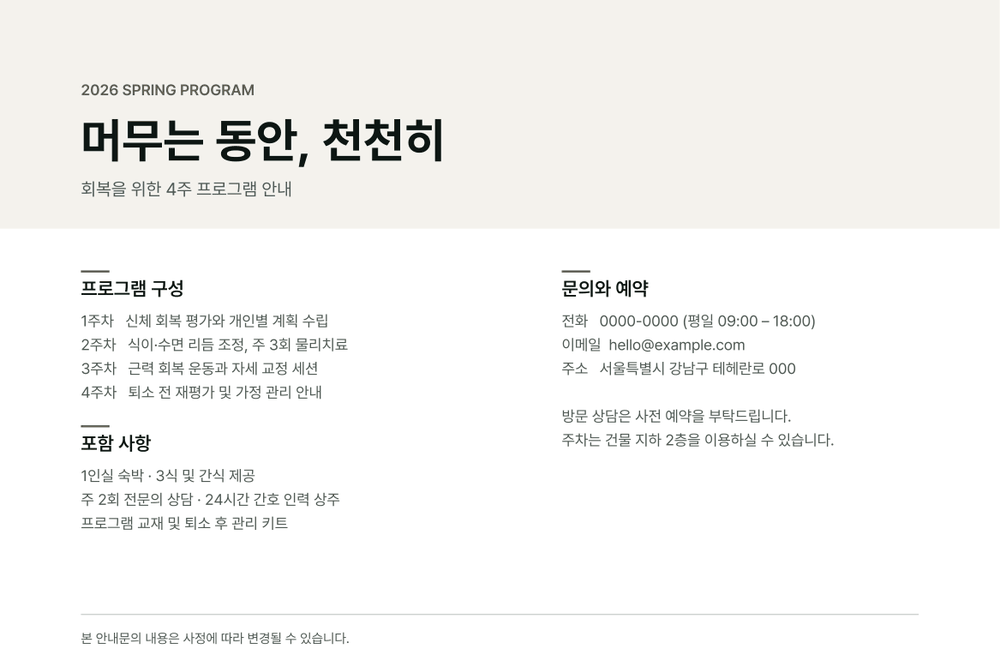
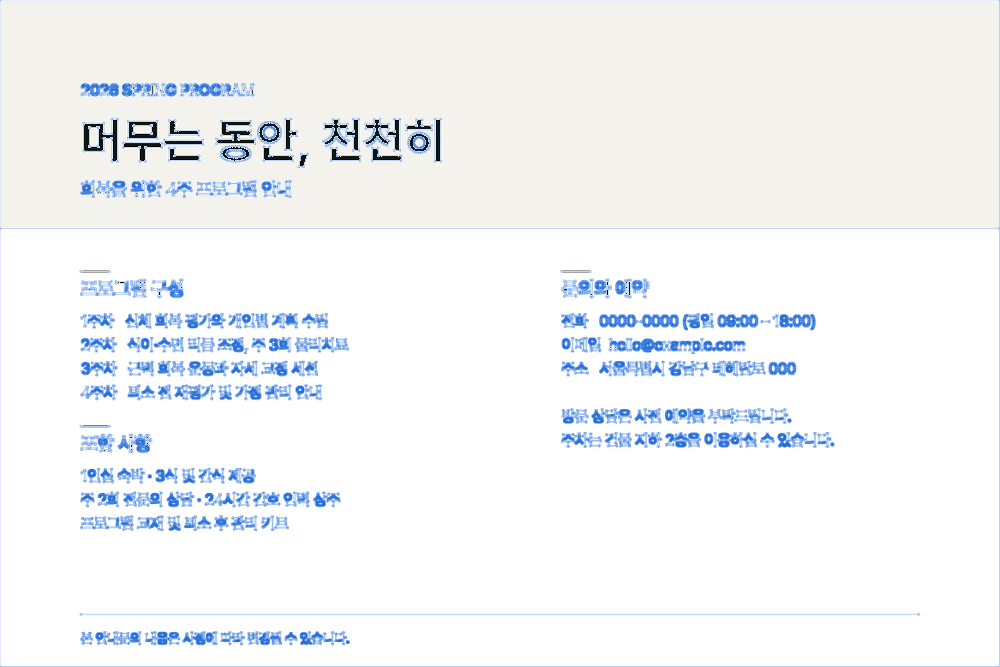
영역 제목을 확실히 키우고, 갤러리 전/후가 보이지 않던 문제와 목록 높이 불균형을 고침
제목
- 섹션 제목 최소 38px (좁은 화면 기준), 최대 68px. 이전 32~58px 로는 «영역 제목»으로
  안 읽힌다는 지적을 반영해 한 번 더 키움.
- 섹션 이름표를 알약 배지에서 «제목 위 라벨 + 괘선» 으로 바꿈. 배지는 작아서
  영역이 바뀌는 신호가 되지 못했다.

갤러리 전/후
- 전/후를 나란히 놓으면 아무 차이도 안 보였다(그게 이 서비스의 핵심이지만
  슬라이더로는 고장난 것처럼 읽힌다). 히어로와 같이 «앵커포인트 화면» 을 «전» 으로 쓴다.
- 앵커 뷰는 흰 종이라 왼쪽만 배경이 빠져 보였다 → 원본 렌더 위에 앵커만 덮어
  합성(compose_anchor). 히어로 이미지도 같은 방식으로 다시 만듦.

받으실 것
- 리포트처럼 세로로 긴 그림 때문에 행 높이가 제각각이고 왼쪽에 거대한 빈칸이 생겼다.
  그림칸을 16:9 로 못 박고 object-fit:contain 으로 잘리지 않게 함.
  리포트는 읽히는 윗부분만 잘라 별도 썸네일로.

diff --git a/style.css b/style.css
@@ -38,17 +38,26 @@ section{padding-block:clamp(72px,9vw,130px)}
 .center{text-align:center}
 
 /* ── 공통 조각 ────────────────────────────────────────────────── */
-.eyebrow{display:inline-flex;align-items:center;gap:9px;font-size:14px;font-weight:700;
-  letter-spacing:.01em;color:var(--accent);background:var(--accent-soft);
-  border:1px solid rgba(30,122,90,.18);padding:8px 17px 8px 13px;border-radius:999px}
+/* 섹션 이름표 — 알약 배지는 작아서 «영역 제목»으로 안 읽혔다.
+   테두리를 없애고 글자를 키워 제목 위 라벨처럼 보이게 한다. */
+.eyebrow{display:inline-flex;align-items:center;gap:10px;font-size:15px;font-weight:700;
+  letter-spacing:.06em;color:var(--accent);background:transparent;border:0;
+  padding:0;border-radius:0;text-transform:none}
+.eyebrow::after{content:"";flex:1;min-width:34px;height:1px;background:currentColor;
+  opacity:.28;margin-left:2px}
+.eyebrow .dot{width:9px;height:9px}
+.on-dark .eyebrow{color:var(--accent-lit);background:transparent;border:0}
 .eyebrow .dot{width:6px;height:6px;border-radius:50%;background:var(--accent-lit);
   box-shadow:0 0 0 3px rgba(79,199,154,.22)}
 .on-dark .eyebrow{color:var(--accent-lit);background:rgba(79,199,154,.10);
   border-color:rgba(79,199,154,.22)}
-/* 제목 크기 — 2026-08-30 키움. 화면에서 «딱 보이게» 해달라는 요청.
-   섹션 이름표(eyebrow)도 같이 키워야 균형이 맞는다. */
-h2.h{font-size:clamp(32px,4.6vw,58px);letter-spacing:-.042em;line-height:1.16}
-.lede{font-size:clamp(17px,1.7vw,21px);color:var(--muted);max-width:60ch;margin-top:16px}
+/* 섹션 제목 — 2026-08-30 두 번 키움.
+   좁은 화면에서도 «딱 보여야» 하므로 최소값을 크게 잡는다(38px).
+   vw 계수도 올려 넓은 화면에서 시원하게 커지도록 한다. */
+h2.h{font-size:clamp(38px,5.4vw,68px);letter-spacing:-.045em;line-height:1.12;
+  font-weight:800}
+.sec-head .eyebrow + h2.h,.sec-head .eyebrow + h1.h{margin-top:22px}
+.lede{font-size:clamp(17px,1.6vw,20px);color:var(--muted);max-width:60ch;margin-top:16px}
 .on-dark .lede{color:var(--muted-d)}
 .sec-head{max-width:64ch}
 .sec-head.center{margin-inline:auto}
@@ -559,13 +568,18 @@ footer .legal{margin-top:34px;padding-top:22px;border-top:1px solid var(--line-d
   font-variant-numeric:tabular-nums}
 @media(min-width:820px){.getrow .no{padding:0 0 0 26px}}
 .getrow .body{padding:12px 24px 22px}
-@media(min-width:820px){.getrow .body{padding:22px 26px 22px 0}}
+@media(min-width:820px){.getrow .body{padding:26px 26px 26px 0}}
 .getrow h3{font-size:17.5px;margin-bottom:6px}
 .getrow p{font-size:14.4px;color:var(--muted);line-height:1.65}
+/* 이미지 높이를 놔두면 리포트처럼 세로로 긴 것 때문에 행이 제각각 늘어나
+   왼쪽에 거대한 빈칸이 생긴다. 모든 행의 그림칸을 같은 비율로 못 박는다. */
 .getrow figure{margin:0;background:var(--paper-2);border-left:1px solid var(--line);
-  padding:14px;display:flex;align-items:center}
+  padding:16px;display:flex;align-items:center;justify-content:center}
 @media(max-width:819px){.getrow figure{border-left:0;border-top:1px solid var(--line)}}
-.getrow figure img{width:100%;height:auto;display:block;border-radius:6px}
+.getrow figure img{width:100%;display:block;border-radius:6px;
+  aspect-ratio:16/9;object-fit:contain;background:#fff;
+  border:1px solid var(--line)}
+.getrow .filelist{align-self:center}
 .getrow .filelist{font-size:12.6px;color:var(--muted);line-height:1.9;
   font-family:ui-monospace,SFMono-Regular,Menlo,monospace}
 .getrow .filelist b{color:var(--text)}

diff --git a/index.html b/index.html
@@ -268,8 +268,8 @@
       <div class="gal-view" id="galView">
         <img id="galAfter" alt="복원 후">
         <div class="top" id="galTop"><img id="galBefore" alt="복원 전"></div>
-        <span class="ba-tag l">복원 전</span>
-        <span class="ba-tag r">복원 후</span>
+        <span class="ba-tag l">받은 파일 · 전부 도형</span>
+        <span class="ba-tag r">복원 후 · 편집 가능</span>
         <div class="ba-handle" id="galHandle"><div class="ba-knob">
           <svg viewBox="0 0 24 24" fill="currentColor"><path d="M9.5 7 5 12l4.5 5V7Zm5 0v10l4.5-5-4.5-5Z"/></svg>
         </div></div>
@@ -284,7 +284,9 @@
           <div><b id="galSecs">—</b><span>처리 시간</span></div>
         </div>
         <p class="tiny muted" style="margin-top:16px">
-          겉모습은 바뀌지 않습니다. 손잡이를 끌어 확인해 보세요.</p>
+          왼쪽은 <b style="color:var(--text)">일러스트레이터에서 전체 선택한 실제 화면</b>입니다 —
+          글자가 아니라 좌표뿐입니다. 손잡이를 끌어 비교해 보세요.
+          인쇄 결과는 양쪽이 똑같습니다.</p>
         <div class="btn-row" style="margin-top:18px">
           <a class="btn btn-p" href="restore.html">내 파일로 해보기</a>
         </div>
@@ -319,7 +321,7 @@
         <p>줄별 복원 여부, 사용된 서체·크기·자간, 위치 오차 수치,
           그리고 <b>복원하지 않은 줄과 그 이유</b>가 적혀 있습니다.</p>
       </div>
-      <figure><img src="assets/report.png" alt="검증 리포트" loading="lazy"></figure>
+      <figure><img src="assets/report_thumb.png" alt="검증 리포트" loading="lazy"></figure>
     </div>
     <div class="getrow">
       <span class="no">03</span>
@@ -328,7 +330,7 @@
         <p>원본 위에 복원본을 포개어 렌더링한 이미지입니다.
           디자인이 바뀌지 않았다는 것을 <b>눈으로</b> 확인하실 수 있습니다.</p>
       </div>
-      <figure><img src="assets/overlay_zoom.png" alt="겹쳐보기 확대" loading="lazy"></figure>
+      <figure><img src="assets/overlay.png" alt="겹쳐보기 검사 이미지" loading="lazy"></figure>
     </div>
     <div class="getrow">
       <span class="no">04</span>

diff --git a/make_gallery.py b/make_gallery.py
@@ -265,7 +265,23 @@ def run_one(key: str, label: str, note: str, build, page_w: float) -> dict | Non
     dest = OUT / key
     dest.mkdir(parents=True, exist_ok=True)
     from PIL import Image
-    for src, name in ((gt, "before"), (restored, "after")):
+
+    # 「복원 전 / 후」를 나란히 놓으면 **아무 차이도 안 보인다.** 그게 이 서비스의
+    # 핵심이지만(디자인이 안 바뀐다), 슬라이더로는 고장난 것처럼 읽힌다.
+    # 그래서 «전» 쪽은 파일의 실제 내용 — 글자마다 박힌 앵커포인트 — 을 보여 준다.
+    # 연출이 아니라 outlined.pdf 안에 실제로 들어 있는 좌표를 그대로 찍는 것이다.
+    import importlib.util
+    _spec = importlib.util.spec_from_file_location("_ma", ROOT / "site" / "make_assets.py")
+    _ma = importlib.util.module_from_spec(_spec); _spec.loader.exec_module(_ma)
+    paths_pdf = work / "paths.pdf"
+    try:
+        _ma.build_anchor_view(gt, paths_pdf)
+    except Exception as exc:                                   # noqa: BLE001
+        print(f"  [{key}] 앵커 뷰 실패: {exc}")
+        paths_pdf = None
+
+    for src, name in ((paths_pdf or gt, "_anchor"), (restored, "after"),
+                      (gt, "plain")):
         if src is None:
             continue
         d = pymupdf.open(src)
@@ -275,6 +291,14 @@ def run_one(key: str, label: str, note: str, build, page_w: float) -> dict | Non
         w = 1000
         im = im.resize((w, round(im.height * w / im.width)), Image.LANCZOS)
         im.convert("RGB").quantize(colors=128).save(dest / f"{name}.png", optimize=True)
+
+    # 앵커 뷰를 원본 배경 위에 얹어 «받은 파일» 쪽을 만든다.
+    try:
+        _ma.compose_anchor(dest / "plain.png", dest / "_anchor.png", dest / "before.png")
+        (dest / "_anchor.png").unlink(missing_ok=True)
+    except Exception as exc:                                   # noqa: BLE001
+        print(f"  [{key}] 앵커 합성 실패: {exc}")
+        shutil.copy2(dest / "_anchor.png", dest / "before.png")
 
     det = len(lines.get("lines", []))
     ok = (spec.get("summary") or {}).get("ok", 0)

diff --git a/make_assets.py b/make_assets.py
@@ -636,3 +636,25 @@ def build_ambiguous_card(work: Path, outlined: Path, dst: Path, out_w: int = 900
            fill=(92, 103, 99), font=_ui(14))
     canvas.save(dst, optimize=True)
     print(f"   미상 카드: {ln['text'][:24]!r}  I={s1:.4f}  l={s2:.4f}")
+
+
+def compose_anchor(plain_png: Path, anchor_png: Path, dst: Path) -> None:
+    """배경 위에 앵커포인트를 얹는다.
+
+    앵커 뷰는 흰 종이에 좌표만 그린 것이라 배경 색면이 없다. 그대로 전/후 슬라이더에
+    쓰면 왼쪽만 배경이 빠져 «렌더링이 깨진 것»처럼 보인다.
+    실제 인쇄물에는 배경이 그대로 있으므로, 원본 렌더 위에 앵커만 덮어 씌운다.
+    (앵커 뷰의 흰 픽셀은 버리고, 파란 선·점만 가져온다.)
+    """
+    from PIL import Image
+    import numpy as np
+    base = Image.open(plain_png).convert("RGB")
+    ank = Image.open(anchor_png).convert("RGB")
+    if ank.size != base.size:
+        ank = ank.resize(base.size, Image.LANCZOS)
+    b = np.asarray(base).astype("int16")
+    a = np.asarray(ank).astype("int16")
+    ink = a.min(axis=2) < 235                    # 흰 배경이 아닌 곳 = 앵커
+    out = b.copy()
+    out[ink] = a[ink]
+    Image.fromarray(out.astype("uint8")).save(dst, optimize=True)
